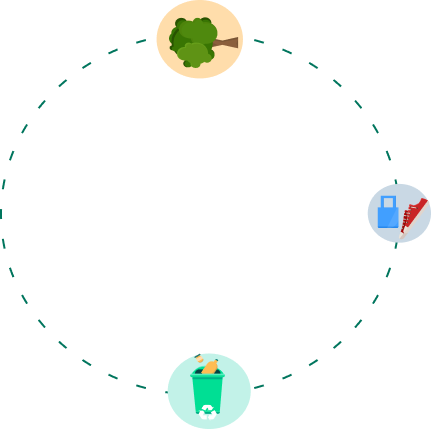
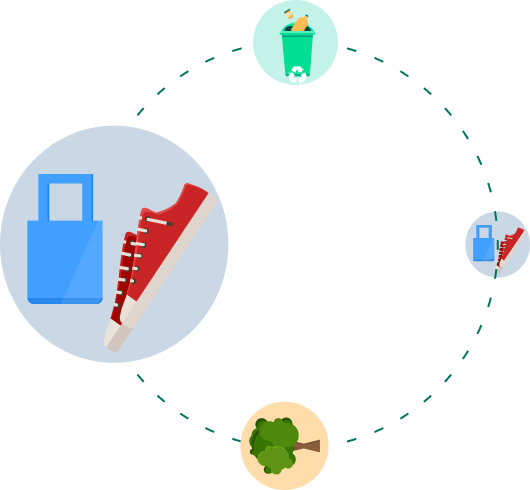
completed animation

diff --git a/screens/GetStarted/SceneWrapper.js b/screens/GetStarted/SceneWrapper.js
@@ -80,7 +80,7 @@ const SceneWrapper = ({ navigation }) => {
           className={`absolute -right-[50%] top-14`}
           style={{ transform: [{ rotate: rotateAnimation }] }}
         />
-        {(isAnimationFinished || state.current === 0) && (
+        {/* {(isAnimationFinished || state.current === 0) && (
           <Animated.Image
             source={
               state.current === 0
@@ -91,7 +91,7 @@ const SceneWrapper = ({ navigation }) => {
             }
             className="absolute bottom-[30%] right-[18%]"
           />
-        )}
+        )} */}
       </View>
       <View className={`h-20 flex-row justify-between items-center px-3`}>
         <Image
